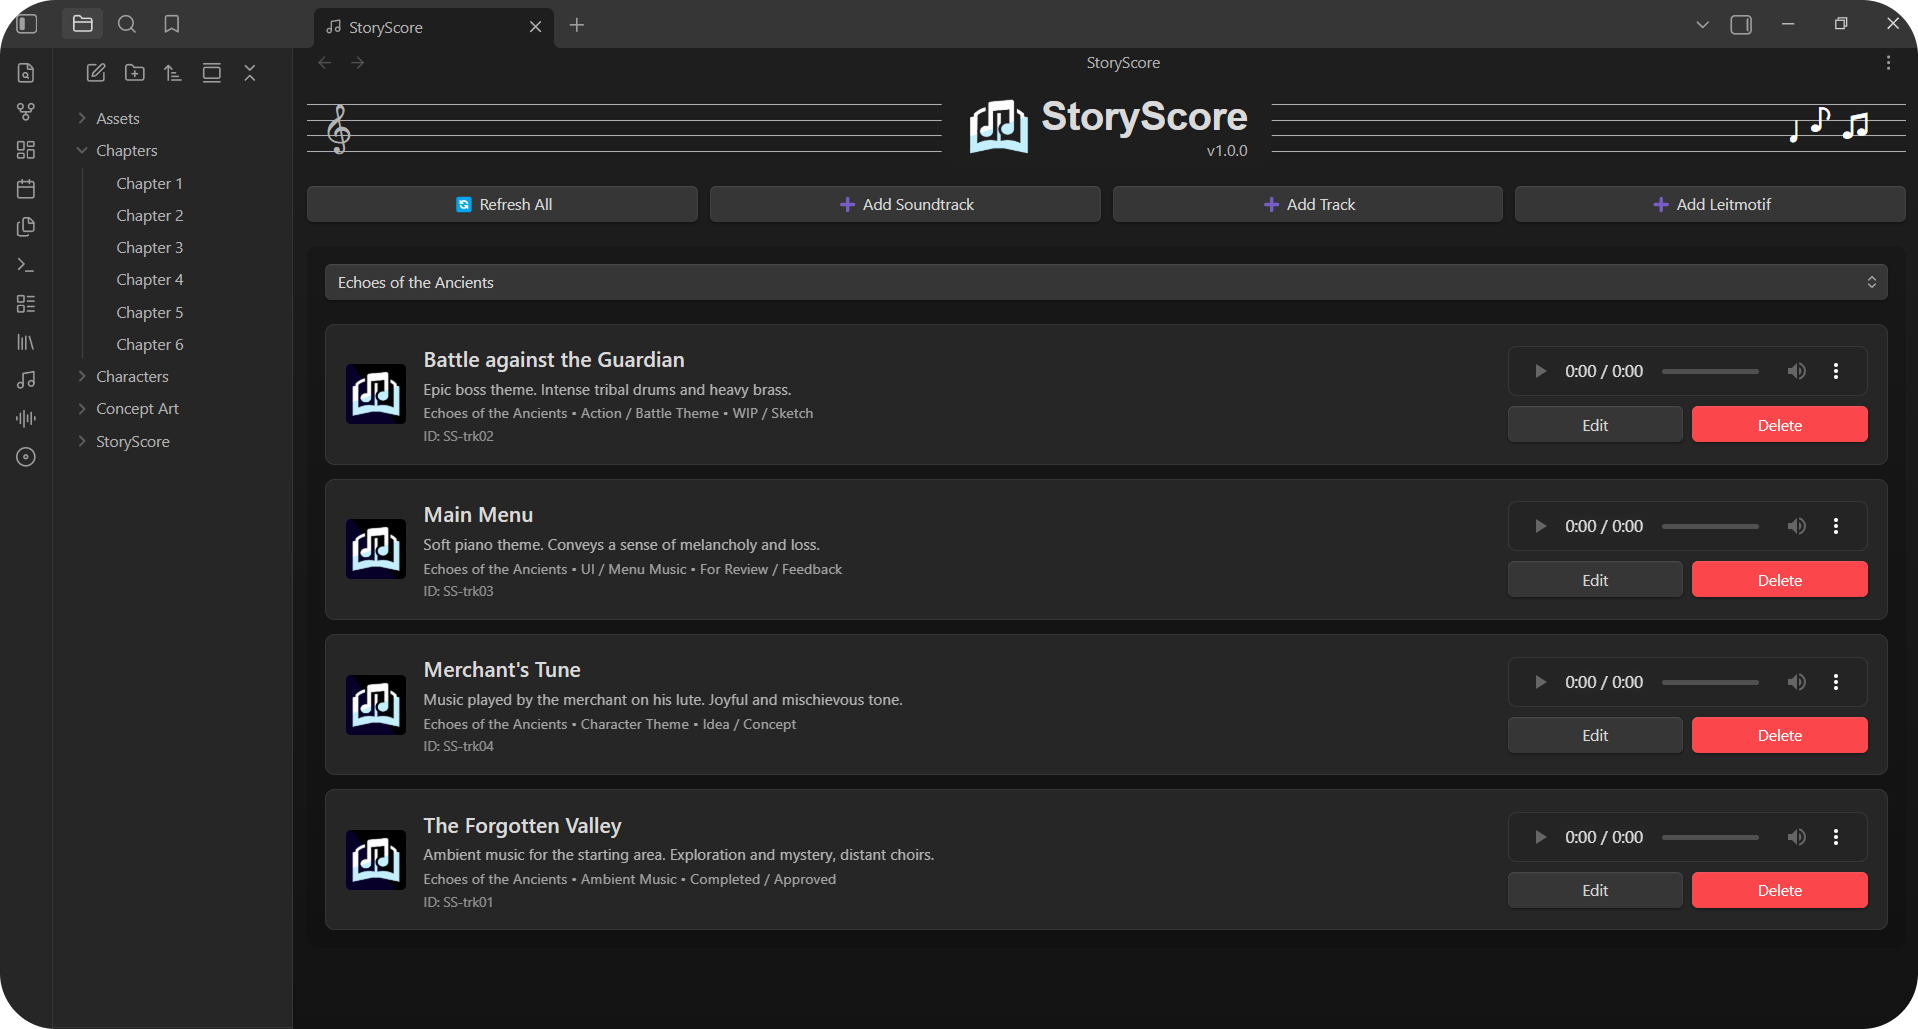
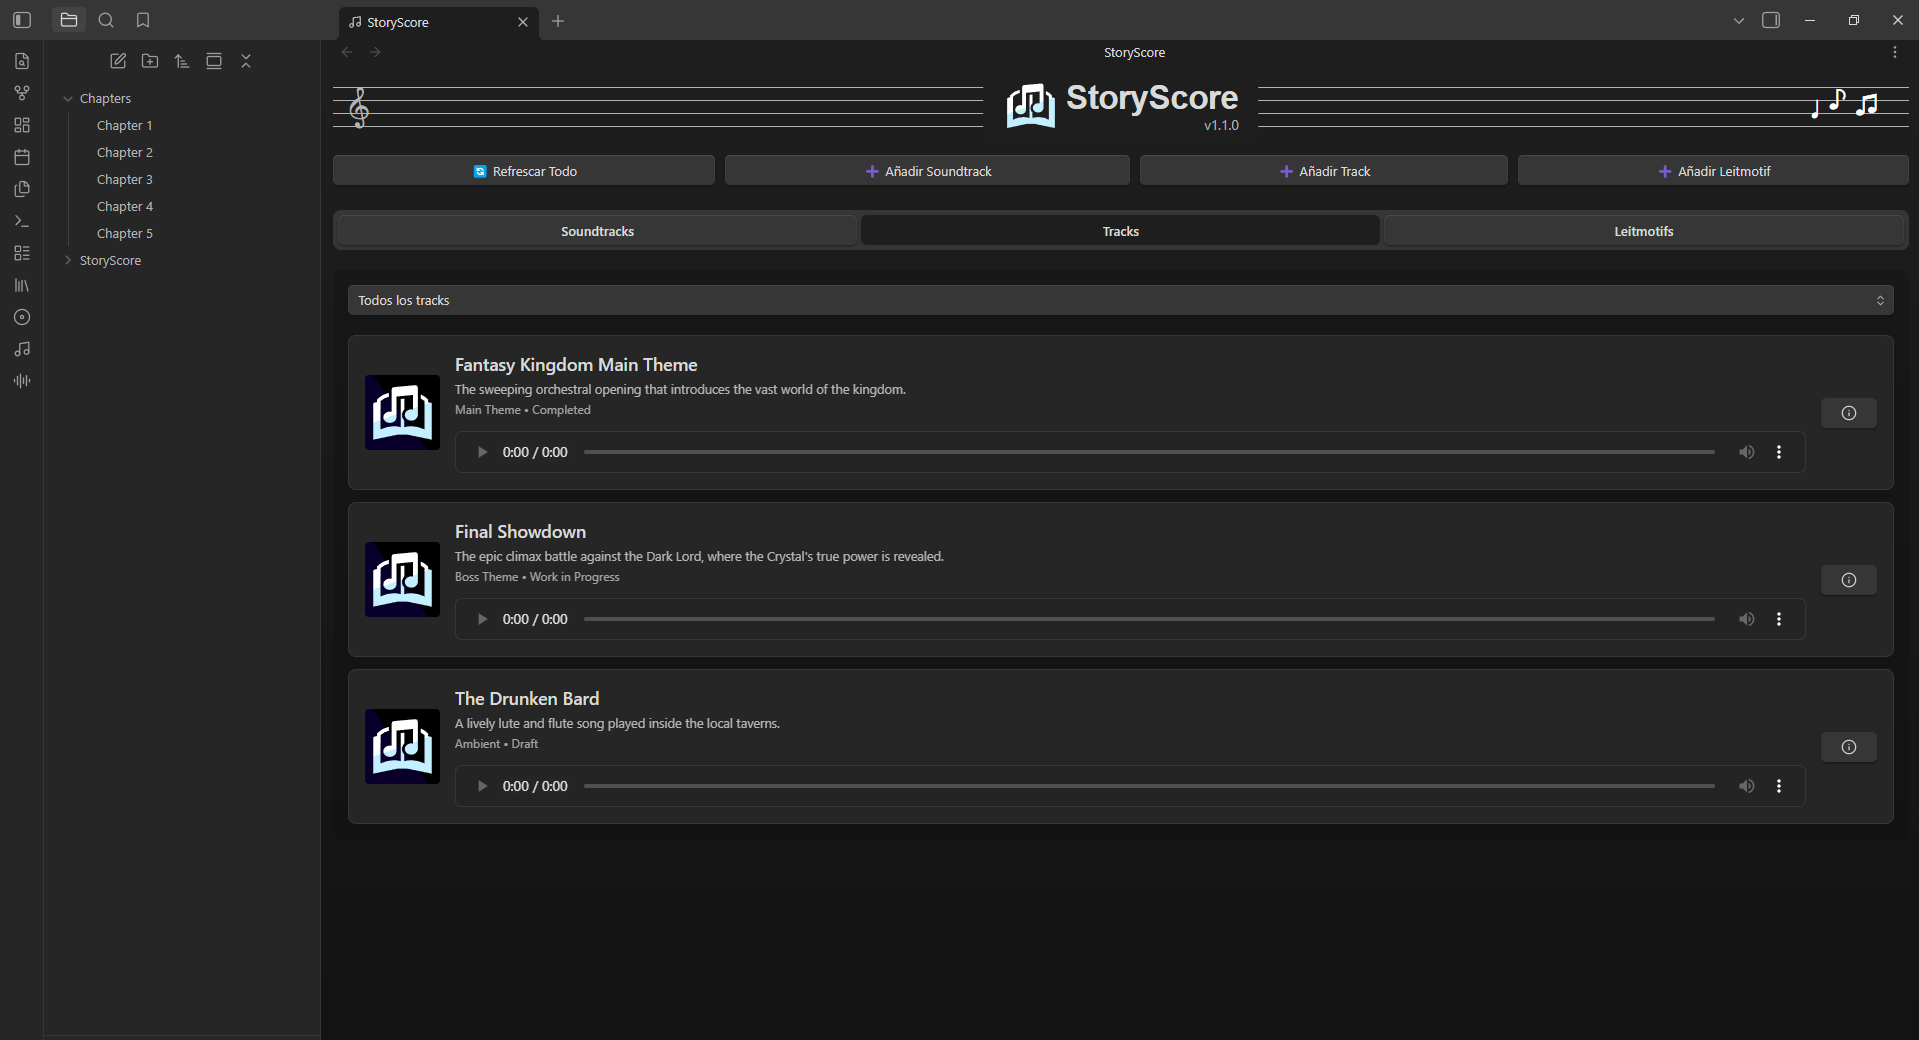
v1.1.0 push

diff --git a/README.md b/README.md
@@ -35,13 +35,18 @@ Easily create tracks and leitmotifs, assign statuses and types, and link audio f
 
 ### Embedded Cards (Codeblocks)
 
-Insert tracks directly into the flow of your text. Open the **Command Palette** while on the desired note and use the *Insert track player here* command. If you prefer to do it manually, create a codeblock like this:
+Insert track, soundtrack, or leitmotif cards directly into the flow of your text. Open the **Command Palette** while on the desired note and use the *Insert track player here* command. If you prefer to do it manually, create a codeblock like this:
 
 ````markdown
 ```storyscore
-id: SS-rnf8e # (Example track ID)
+id: SS-rnf8e
 ```
 ````
+
+You can insert 3 types of cards depending on the ID prefix you use:
+- `SS-`: To insert a **Track** card.
+- `ST-`: To insert a **Soundtrack** (Album) card.
+- `LM-`: To insert a **Leitmotif** card.
 
 This will give your notes a much more immersive musical and narrative dimension, allowing you to play the exact music for a scene, character, or event without leaving the text.
 <div align="center">
@@ -67,15 +72,6 @@ StoryScore's development has just begun. Future updates plan to build comprehens
 Currently, StoryScore supports the following languages:
 - 🇬🇧 **English**
 - 🇪🇸 **Spanish**
-
-Since music is a universal language, any help to bring StoryScore to more languages is highly appreciated!
-
-If you want to contribute a translation:
-1. **Fork** this repository.
-2. Create a new language file inside the `src/locales/` folder (you can use `en.ts` as a template).
-3. Submit a **Pull Request (PR)** with your translated file.
-
-Your translation will be included in the next release, and you will be fully credited for your contribution!
 
 ## Support Me
 If you find this plugin useful for your projects and want to support its development, consider buying me a coffee!  :]
@@ -109,3 +105,18 @@ Check out my other plugins for Obsidian:
 <div align="center">
   Thanks for using <b>StoryScore</b>
 </div>
+
+
+FEATURES
+
+Manager Update: The main Manager now has tabs to navigate between Tracks, Soundtracks, and Leitmotifs.
+New Info Panels: Soundtracks and Leitmotifs now have their own Information Modals to manage all their data in one place (similar to Tracks).
+Codeblock Expansion: You can now insert Soundtrack (ST-) and Leitmotif (LM-) cards directly into your notes using the storyscore codeblock.
+News Tab: Added a new 'News' tab in the plugin settings to see the latest updates.
+Mobile Support: Filter buttons in the Manager are now horizontally scrollable to prevent UI issues on mobile devices.
+FIXES
+
+Fixed a critical bug that prevented saving or updating track lyrics from the information panel.
+Fixed an issue where "custom" entity types in Leitmotifs were not being saved correctly in the file.
+Fixed Diegesis translations for Spanish users ("Diegético" / "Extradiegético"), with backwards compatibility for older files.
+Cleaned up strict styling warnings and minor code issues.